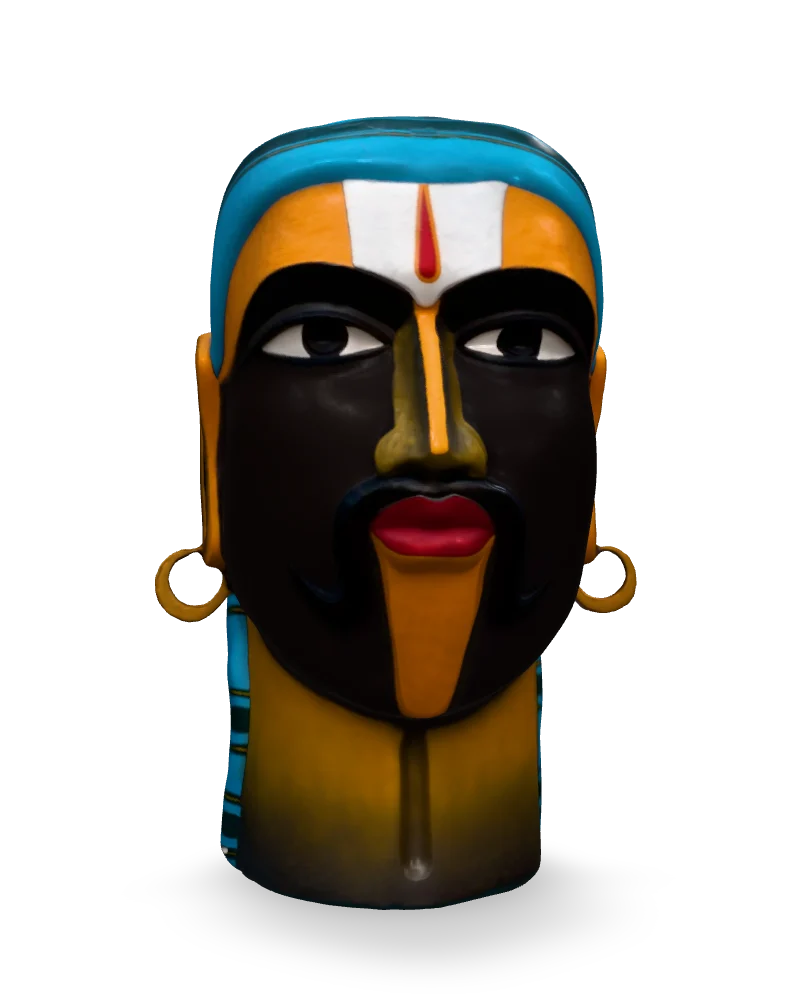
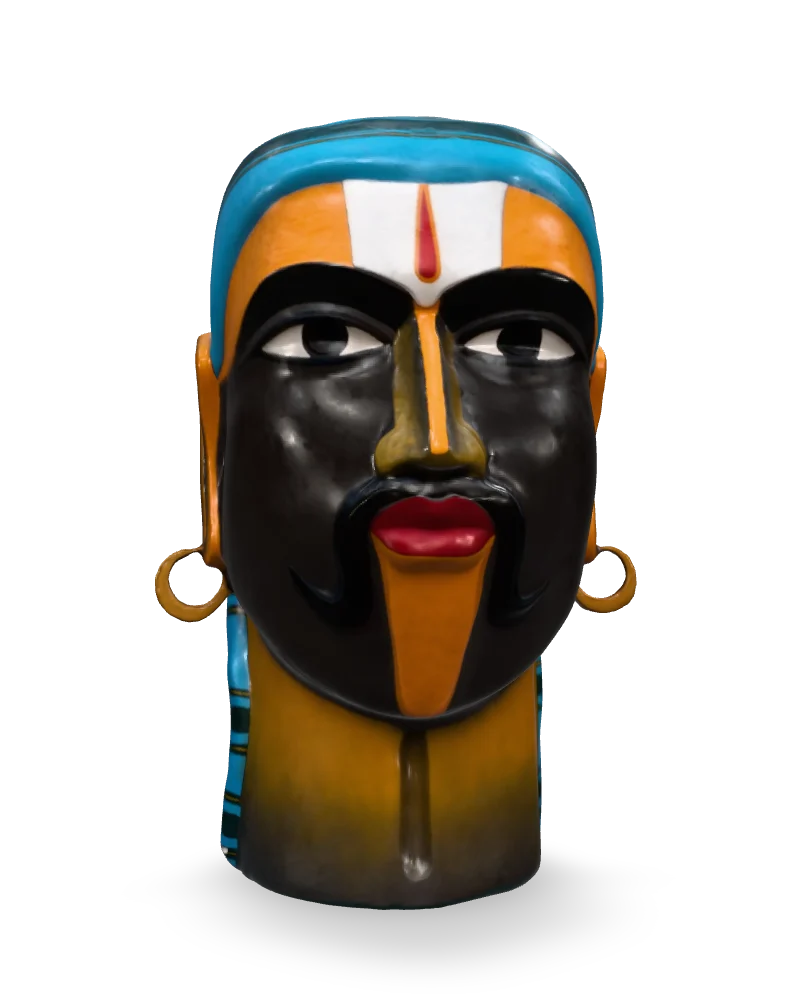
Side lights and restored sheen for the Blue Turban head
Its black face showed no form: the scan's material has its specular
set to 0, so the paint reflected nothing whatever the light. Works can
now set `look.specular` (sets the paint's sheen) and `look.sideLights`
(extra light from left and right). This head uses 0.6 and 1;
thumbnail remade.

diff --git a/lib/sculptures.ts b/lib/sculptures.ts
@@ -74,6 +74,16 @@ export interface ArtworkLook {
   reflections?: number;
   /** Strength of the lights. */
   light?: number;
+  /**
+   * Extra lights from the viewer's left and right at face height (0 = none,
+   * 1 = as strong as the key). For dark works whose form front light can't show.
+   */
+  sideLights?: number;
+  /**
+   * Sets (not multiplies) the paint's surface sheen, 0–1. Some scans export it
+   * as 0, which leaves dark paint flat whatever the light; 1 is ordinary paint.
+   */
+  specular?: number;
 }
 
 /** AR height for works whose real height (`heightCm`) isn't known yet. */
@@ -672,9 +682,9 @@ export const sculptures: Sculpture[] = [
     title: "Male Head with Blue Turban and Moustache",
     description: "",
     artistSlug: "thota-vaikuntam",
-    thumbnail: "/thumbnails/thota-male-head-with-blue-turban.webp?v=4",
+    thumbnail: "/thumbnails/thota-male-head-with-blue-turban.webp?v=5",
     modelUrl: "/sculptures/thota-untitled-head-with-turban.glb",
-    look: { metalness: 0.15, roughness: 1.3, reflections: 1.2, light: 1.3 },
+    look: { metalness: 0.15, roughness: 1.3, reflections: 1.2, light: 1.3, specular: 0.6, sideLights: 1 },
     material: "Fiberglass",
     year: "2025",
     dimensions: "97 × 50 × 72 inches",

diff --git a/components/SculptureScene.tsx b/components/SculptureScene.tsx
@@ -125,6 +125,7 @@ const prepareMaterial = (
     c.transmission = 0;
     const s = c.specularColor;
     s.setRGB(Math.min(s.r, 1), Math.min(s.g, 1), Math.min(s.b, 1));
+    if (look?.specular !== undefined) c.specularIntensity = look.specular;
   }
   if (c instanceof THREE.MeshStandardMaterial && look) {
     c.metalness *= look.metalness ?? 1;
@@ -485,6 +486,16 @@ export const SculptureContents: FC<
         <directionalLight position={rig.fill.position} intensity={rig.fill.intensity * light} />
       )}
       <directionalLight position={rig.back.position} intensity={rig.back.intensity * light} />
+      {/* Optional side lights (look.sideLights): graze dark surfaces so their form shows. */}
+      {!!look?.sideLights &&
+        ([-1, 1] as const).map((side) => (
+          <directionalLight
+            key={side}
+            position={[side * 5, 1, 1.5]}
+            intensity={rig.key.intensity * look.sideLights! * light}
+            color={rig.key.color}
+          />
+        ))}
 
       {/* Reflections / specular for the bronze patina — procedural, no HDR download.
           Set per scene: three ignores a material's own envMapIntensity here. */}

diff --git a/docs/adding-artworks.md b/docs/adding-artworks.md
@@ -235,7 +235,7 @@ The entries marked `placeholder: true` ("Artist Name") only fill the layout. Del
 | `modelUrl` | The 3D model. The work's page opens in 3D (with a 3D / Photo switch) and gets "View in AR" |
 | `facing` | Degrees to turn the model (anticlockwise, seen from above) so it faces front. For scans saved facing sideways. Run `npm run thumbnails -- <slug>` and `npm run ar-models -- <slug>` again after changing it |
 | `heightCm` | The work's real height in cm: the size it appears at in AR. Without it, AR uses 50 cm. Run `npm run ar-models -- <slug>` again after changing it |
-| `look` | Tones down a scan that renders shinier than the real work, on top of the shared light in `components/three/lighting.ts` (`LIGHTING`: soft daylight with true colours). Each value multiplies the model's own: `metalness` (0 = paint), `roughness` (above 1 = more matte), `reflections`, `light`. Only the 3D views use it, not AR. Run `npm run thumbnails -- <slug>` again after changing it |
+| `look` | Tones down a scan that renders shinier than the real work, on top of the shared light in `components/three/lighting.ts` (`LIGHTING`: soft daylight with true colours). Each value multiplies the model's own: `metalness` (0 = paint), `roughness` (above 1 = more matte), `reflections`, `light`. For a very dark work whose form doesn't show: `sideLights` (extra light from left and right, 1 = key strength) and `specular` (sets the paint's sheen 0–1; some scans export it as 0, which leaves black paint flat). Only the 3D views use it, not AR. Run `npm run thumbnails -- <slug>` again after changing it |
 | `usdzUrl` | A ready-made iPhone AR file. Without it, one is generated from the `.glb` |
 | `subtitle` | A short line, e.g. `"From the Nayika series"`. Searchable |
 | `longDescription` | Extra paragraph under the description |
